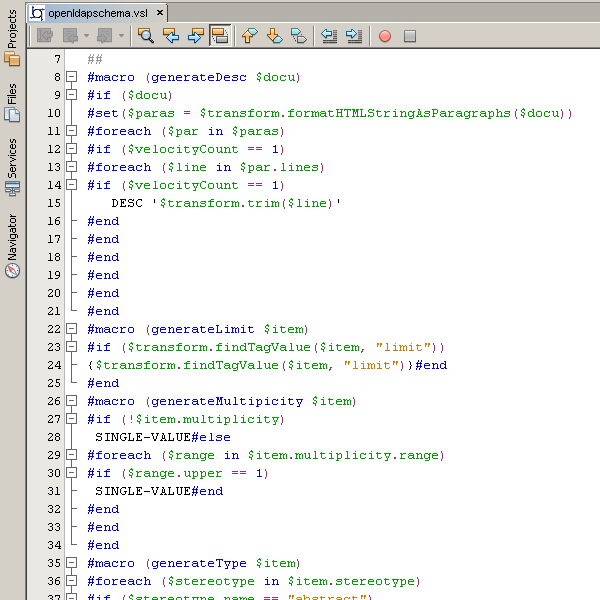
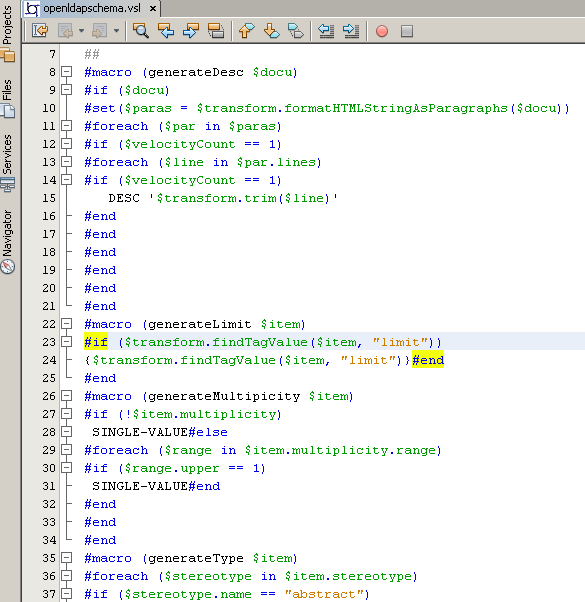
Braces matching added
git-svn-id: https://svn.code.sf.net/p/velocity-editor/code/trunk@10 3e7c82c7-2f88-4090-b006-87e094a7580b

Changed region(s): [[0.0, 0.0, 1.0, 1.0]]

diff --git a/docs/LongDescription.html b/docs/LongDescription.html
@@ -10,17 +10,17 @@
       <meta http-equiv="Content-Type" content="text/html; charset=UTF-8">
    </head>
    <body>
-   	Provides basic support to Velocity's *.vm and *.vsl files. Syntax coloring and basic error highlighting
+   	Provides basic support to Velocity's *.vm and *.vsl files. Syntax coloring, basic error highlighting and braces matching
    	is achieved with a lexer and parser based on
       <a href="http://velocity.apache.org/"> Apache Velocity's</a> 1.6.2 specification and compiled with
       <a href="https://javacc.dev.java.net/"> JavaCC 5.0</a>.
       <p><u>Current Version:</u></p>
       <p>
-         Supports syntax- error highlighting and code folding.
+         Supports syntax- error highlighting, code folding and braces matching.
       </p>
       <p><u>Konwn issuses:</u></p>
       	<ul>
-      		<li>Syntax color is lost when editing variables, properties and methods. A workaround is to delete and insert the preceeding $ sign.</li>
+      		<li>Syntax color is lost when editing properties and methods. A workaround is to delete and insert the preceeding $ sign.</li>
       		<li>Error recovery is rudimentary. At the present time the recovery point is allways the next LPAREN. Needs to be revised.</li>
       		<li>It should be checked, that the number of arguments in a macro call is the same as in the corresponding macro definition.</li>
       		<li>No syntax coloring for directives #parse, #evaluate, #define</li>

diff --git a/docs/WhatsNew.html b/docs/WhatsNew.html
@@ -1,3 +1,12 @@
+<b>For version 2.2.0</b>
+<ul>
+	<li>support for braces matching (<font style="background-color: #ffff00">#ForEach</font>  .. <font style="background-color: #ffff00">#end</font>,
+		 <font style="background-color: #ffff00">#if</font> .. <font style="background-color: #ffff00">#end</font>,
+		 <font style="background-color: #ffff00">#elsif</font> .. <font style="background-color: #ffff00">#end</font>,
+		 <font style="background-color: #ffff00">#else</font> .. <font style="background-color: #ffff00">#end</font> and
+		 <font style="background-color: #ffff00">#macro</font> .. <font style="background-color: #ffff00">#end</font>
+		 ) added</li>
+</ul>
 <b>For version 2.1.0</b>
 <ul>
 	<li>supports code folding for #ForEach, #if, #elsif, #else and #macro directives</li>

diff --git a/src/com/tsi/netbeans/modules/languages/velocity/editor/bracesmatching/VTLBracesMatcher.java b/src/com/tsi/netbeans/modules/languages/velocity/editor/bracesmatching/VTLBracesMatcher.java
@@ -1,0 +1,181 @@
+/*
+ * $Id$
+ *
+ * Copyright (c) 2009 T-Systems International GmbH.
+ * All rights reserved.
+ * This software is the confidential and proprietary information
+ * of T-Systems International GmbH.
+ *
+ */
+package com.tsi.netbeans.modules.languages.velocity.editor.bracesmatching;
+
+import com.tsi.netbeans.modules.languages.velocity.jcclexer.VelocityParserConstants;
+import com.tsi.netbeans.modules.languages.velocity.lexer.VTLTokenId;
+import java.util.ArrayList;
+import java.util.List;
+import javax.swing.text.BadLocationException;
+import org.netbeans.api.lexer.Language;
+import org.netbeans.api.lexer.Token;
+import org.netbeans.api.lexer.TokenHierarchy;
+import org.netbeans.api.lexer.TokenId;
+import org.netbeans.api.lexer.TokenSequence;
+import org.netbeans.spi.editor.bracesmatching.BracesMatcher;
+import org.netbeans.spi.editor.bracesmatching.BracesMatcherFactory;
+import org.netbeans.spi.editor.bracesmatching.MatcherContext;
+
+/**
+ *
+ * @author <a href="mailto:werner.jaeger@t-systems.com">Werner Jaeger</a>
+ */
+public class VTLBracesMatcher implements BracesMatcher, BracesMatcherFactory
+{
+   private final MatcherContext m_Context;
+
+   private int     m_iOriginOffset;
+   private boolean m_fBackward;
+
+   /**
+    * Creates new {@code VTLBracesMatcher}.
+    */
+   public VTLBracesMatcher()
+   {
+      this(null);
+   }
+
+   /**
+    * Creates new {@code VTLBracesMatcher}.
+    */
+   private VTLBracesMatcher(final MatcherContext mc)
+   {
+      m_Context = mc;
+   }
+
+   public int[] findOrigin() throws InterruptedException, BadLocationException
+   {
+      final TokenHierarchy                         localTokenHierarchy = TokenHierarchy.get(m_Context.getDocument());
+      final List<TokenSequence<? extends TokenId>> localList           = getTokenSequences(localTokenHierarchy, m_Context.getSearchOffset(), VTLTokenId.getLanguage());
+
+      final int[] aiOrigins;
+      if (!localList.isEmpty())
+      {
+         final TokenSequence<? extends TokenId> ts    = localList.get(localList.size() - 1);
+         final Token<? extends TokenId>         token = ts.offsetToken();
+
+         switch (token.id().ordinal())
+         {
+         case VelocityParserConstants.ELSEIF_DIRECTIVE:
+         case VelocityParserConstants.ELSE_DIRECTIVE:
+         case VelocityParserConstants.FOREACH_DIRECTIVE:
+         case VelocityParserConstants.IF_DIRECTIVE:
+         case VelocityParserConstants.MACRO_DIRECTIVE:
+            aiOrigins       = new int[] {ts.offset(), ts.offset() + token.length()};
+            m_iOriginOffset = aiOrigins[0];
+            m_fBackward     = false;
+            break;
+
+         case VelocityParserConstants.END:
+            aiOrigins       = new int[] {ts.offset(), ts.offset() + token.length()};
+            m_iOriginOffset = aiOrigins[0];
+            m_fBackward     = true;
+            break;
+
+         default:
+            aiOrigins = null;
+         }
+      }
+      else
+         aiOrigins = null;
+
+      return(aiOrigins);
+   }
+
+   public int[] findMatches() throws InterruptedException, BadLocationException
+   {
+      final TokenHierarchy                         localTokenHierarchy = TokenHierarchy.get(m_Context.getDocument());
+      final List<TokenSequence<? extends TokenId>> localList           = getTokenSequences(localTokenHierarchy, m_iOriginOffset, VTLTokenId.getLanguage());
+
+      int[] aiMatches = null;
+
+      if (!localList.isEmpty())
+      {
+         final TokenSequence<? extends TokenId> ts = localList.get(localList.size() - 1);
+
+         ts.move(m_iOriginOffset);
+
+         final boolean fHasNext;
+         if (m_fBackward)
+            fHasNext = true;
+         else
+            fHasNext = ts.moveNext();
+
+         if (fHasNext)
+         {
+            int iLevel = 0;
+            while ((iLevel >= 0) && (m_fBackward ? ts.movePrevious() : ts.moveNext()))
+            {
+               final Token<? extends TokenId> token = ts.offsetToken();
+
+               switch (token.id().ordinal())
+               {
+               case VelocityParserConstants.ELSEIF_DIRECTIVE:
+               case VelocityParserConstants.ELSE_DIRECTIVE:
+                  break;
+
+               case VelocityParserConstants.FOREACH_DIRECTIVE:
+               case VelocityParserConstants.IF_DIRECTIVE:
+               case VelocityParserConstants.MACRO_DIRECTIVE:
+                  if (m_fBackward)
+                  {
+                     if (iLevel == 0)
+                        aiMatches = new int[] {ts.offset(), ts.offset() + token.length()};
+
+                     iLevel--;
+                  }
+                  else
+                     iLevel++;
+
+                  break;
+
+               case VelocityParserConstants.END:
+                  if (!m_fBackward)
+                  {
+                     if (iLevel == 0)
+                        aiMatches = new int[] {ts.offset(), ts.offset() + token.length()};
+
+                     iLevel--;
+                  }
+                  else
+                     iLevel++;
+
+                  break;
+
+               default:
+               }
+            }
+         }
+      }
+
+      return(aiMatches);
+   }
+
+   public BracesMatcher createMatcher(final MatcherContext mc)
+   {
+      return(new VTLBracesMatcher(mc));
+   }
+
+   static List<TokenSequence<? extends TokenId>> getTokenSequences(final TokenHierarchy<?> tokenHierarchy, final int iOriginOffset, final Language<? extends TokenId> language)
+   {
+      final List<TokenSequence<?>> localList = tokenHierarchy.embeddedTokenSequences(iOriginOffset, false);
+
+      for (int i = localList.size() - 1; i >= 0; --i)
+      {
+         final TokenSequence<?> localTokenSequence = localList.get(i);
+         if (localTokenSequence.language() == language)
+            break;
+
+         localList.remove(i);
+      }
+
+      return(new ArrayList<TokenSequence<? extends TokenId>>(localList));
+   }
+}

diff --git a/src/com/tsi/netbeans/modules/languages/velocity/jcclexer/VelocityParserTokenManager.java b/src/com/tsi/netbeans/modules/languages/velocity/jcclexer/VelocityParserTokenManager.java
@@ -4806,8 +4806,8 @@ void TokenLexicalActions(Token matchedToken)
        */
       final String[] astrParts = matchedToken.image.split("\u005c\u005c(");
       VelocityParser.addMacroName(astrParts[1]);
-      input_stream.backup(astrParts[1].length() + 1);
-      matchedToken.image = astrParts[0];
+      input_stream.backup(astrParts[1].length() + 1 + (astrParts[0].length() - astrParts[0].trim().length()));
+      matchedToken.image = astrParts[0].trim();
 
       SwitchTo(DIRECTIVE);
          break;
